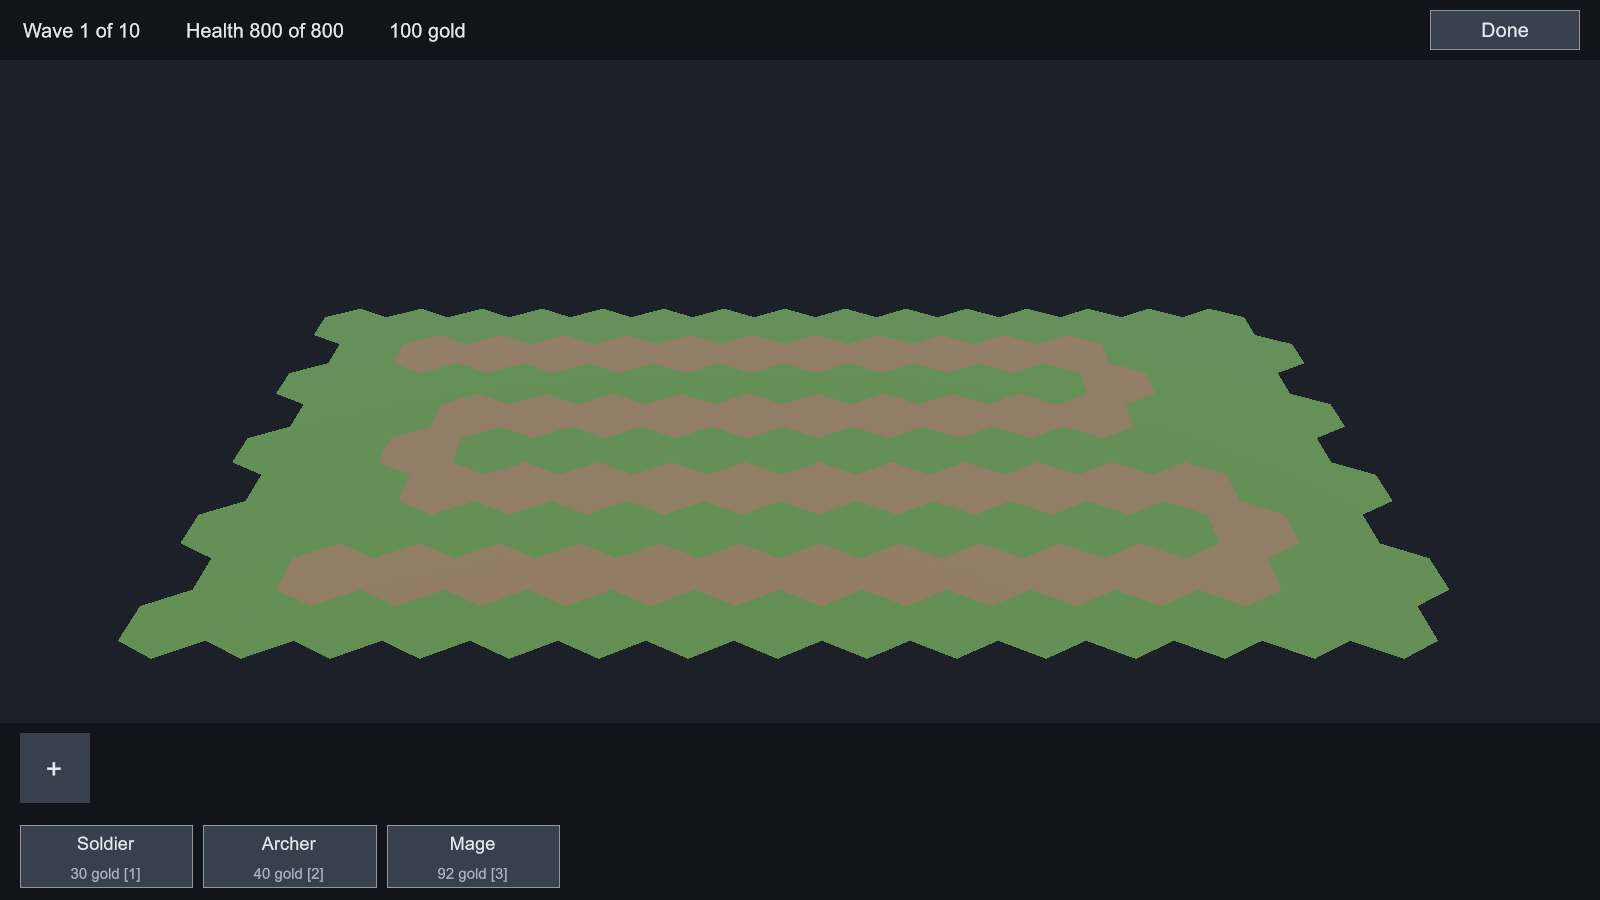
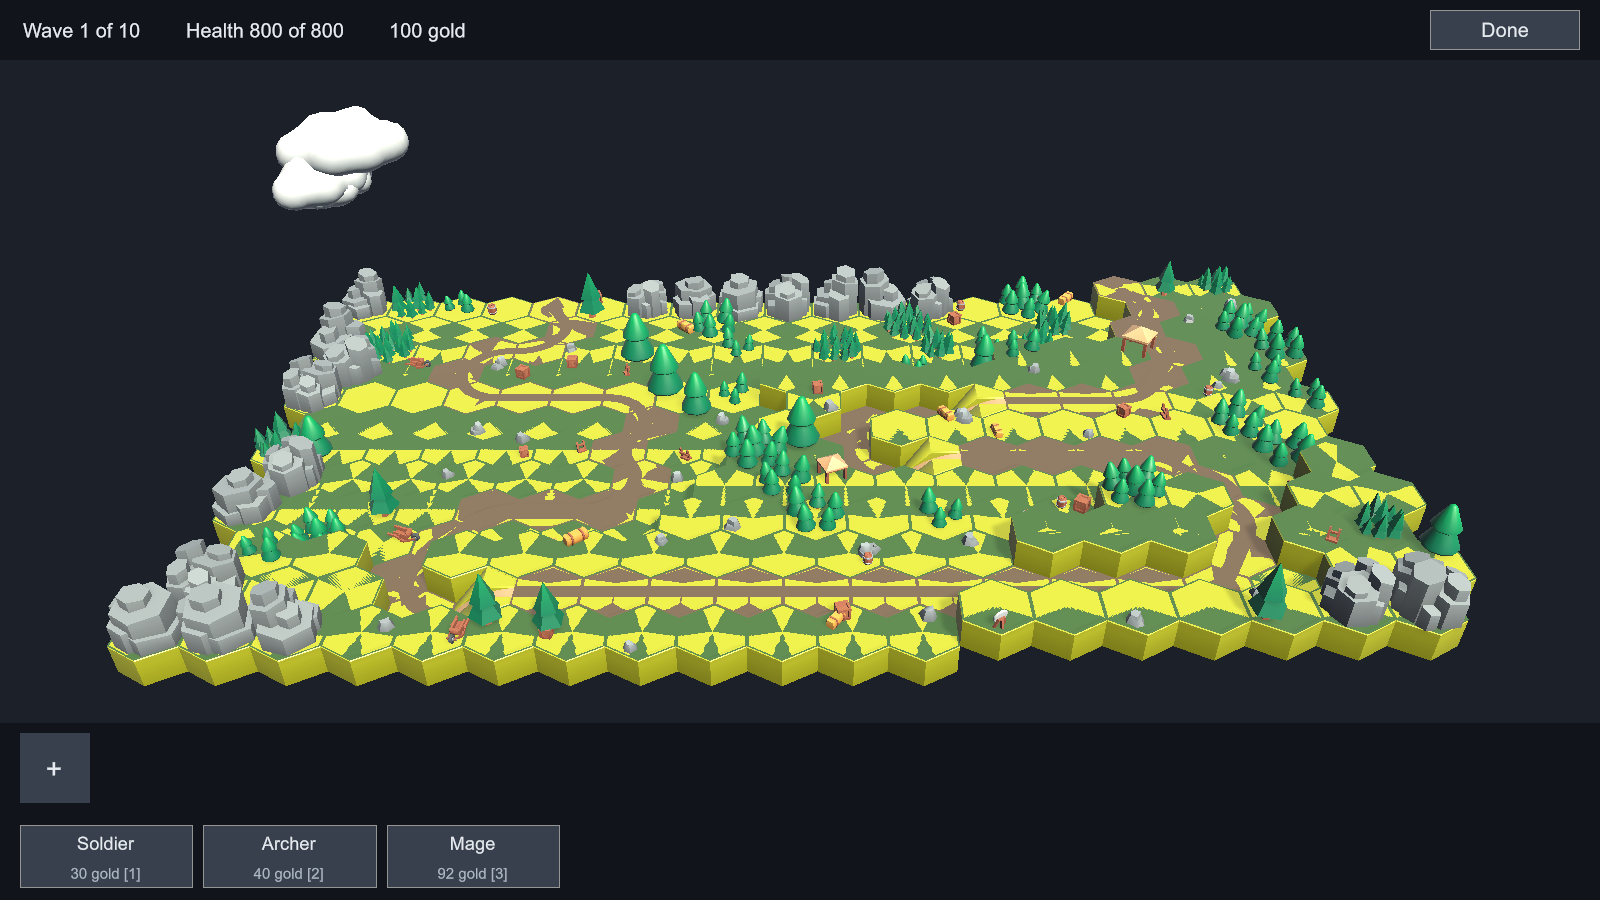
The committed pictures are of the board that ships
The board folded and climbed on 27 August and was tiled and dressed on the
28th. Every committed sheet and frame predates both: they show a flat,
single-tier, untextured playfield, which is the drift check-docs.ps1's second
invariant refuses.

Re-captured through the existing tools -- capture-ui-previews.ps1 against
tools/ui-preview-baseline.json, and capture-match-frames.ps1 at 1096 and 2700.
content/landmarks.txt still names 1096 as first-overtake and names no landmark
at 2700, so neither filename is owed a rename.

The chrome capture also gets the fix the frame capture already had. 6a37ca4
taught MatchFrameCapture to draw the floor the scene carries; UiPreviewCapture
was left on the one-argument Build, so it drew the blockout -- which on a
board with tiers is a flat hexagon with no sides and shows the background
through every step. The sheets had holes punched in them.

And the sheet README names the whole content list it is a claim about. It said
to re-capture when the roster or the ladder moved, which is the sentence that
let these three sit through a board being rebuilt underneath them; the board
and its dressing are two of the four files check-docs.ps1 dates them against.

Claude-Session: https://claude.ai/code/session_01AtjLkGoJAUcs7WBZT4t4Gk

Changed region(s): [[0.0625, 0.28, 0.9375, 0.7778], [0.1562, 0.1244, 0.25, 0.2489]]

diff --git a/client/Assets/Editor/UiPreviewCapture.cs b/client/Assets/Editor/UiPreviewCapture.cs
@@ -320,7 +320,10 @@ namespace View.Editor
             ReplayBundle record = StreamingContent.ReadRecordedMatch();
 
             var root = _host.AddComponent<MatchRoot>();
-            root.Build(record.Map);
+            // The tiles and scenery the scene carries. Without them the sheet
+            // draws the blockout, which on a board with tiers is a flat hexagon
+            // with no sides and shows the background through every step.
+            root.Build(record.Map, MatchSceneBuilder.Tiles(), MatchSceneBuilder.Scenery());
 
             RunLoop loop = root.BeginRun(record.Seed, Path.GetTempPath(), MatchSceneBuilder.Art());
 

diff --git a/docs/chrome/README.md b/docs/chrome/README.md
@@ -75,9 +75,11 @@ The rest is regenerable and not committed, and that is arranged by [`.gitignore`
 whoever runs the capture next remembering to delete them: left to memory, a plain run leaves files in the tree
 and the build gate's last step fails the next push for a dirty repository.
 
-**A sheet is a claim about the content it was rendered from.** Move a price, a label or the ladder and these
-three are stale while going on looking entirely reasonable — a build phase with the wrong number in it is not a
-picture that announces itself. Re-capture them whenever `content/units.txt` or `content/upgrades.txt` moves.
+**A sheet is a claim about the content it was rendered from.** Move a price, a label, the ladder, the board or
+what stands on it and these three are stale while going on looking entirely reasonable — a build phase with the
+wrong number in it is not a picture that announces itself. Re-capture them whenever `content/units.txt`,
+`content/upgrades.txt`, `content/map.txt` or `content/dressing.txt` moves. Those four are the ones
+[`check-docs.ps1`](../../tools/check-docs.ps1) dates the committed sheets against.
 
 ## Two things that had to be measured
 
